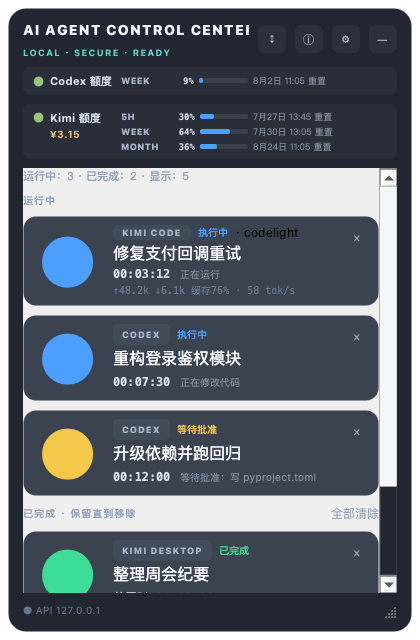
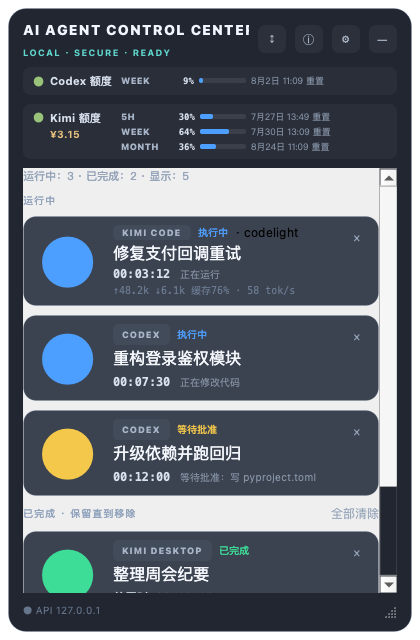
fix: verify Windows ACLs without localized names

Changed region(s): [[0.5881, 0.125, 0.7738, 0.25]]

diff --git a/src/aacc/gui.py b/src/aacc/gui.py
@@ -206,11 +206,11 @@ def _add_quota_metric_row(
     progress_bar.setRange(0, 100)
     progress_bar.setTextVisible(False)
     progress_bar.setFixedHeight(5)
-    progress_bar.setMinimumWidth(47)
+    progress_bar.setMinimumWidth(45)
     progress_bar.setSizePolicy(QSizePolicy.Policy.Expanding, QSizePolicy.Policy.Fixed)
     reset_label = QLabel("--")
     reset_label.setObjectName("quotaReset")
-    reset_label.setMinimumWidth(134)
+    reset_label.setMinimumWidth(136)
     reset_label.setAlignment(Qt.AlignmentFlag.AlignLeft | Qt.AlignmentFlag.AlignVCenter)
     layout.addWidget(period_label, row_index, 0)
     layout.addWidget(percent_label, row_index, 1)
@@ -264,8 +264,8 @@ class QuotaBar(QFrame):
         metric_layout.setVerticalSpacing(2)
         metric_layout.setColumnMinimumWidth(0, 38)
         metric_layout.setColumnMinimumWidth(1, 30)
-        metric_layout.setColumnMinimumWidth(2, 47)
-        metric_layout.setColumnMinimumWidth(3, 134)
+        metric_layout.setColumnMinimumWidth(2, 45)
+        metric_layout.setColumnMinimumWidth(3, 136)
         metric_layout.setColumnStretch(2, 1)
         layout.addLayout(metric_layout, 0, 2, 3, 1)
         layout.setColumnStretch(2, 1)
@@ -402,8 +402,8 @@ class CodexQuotaBar(QFrame):
         metric_layout.setHorizontalSpacing(5)
         metric_layout.setColumnMinimumWidth(0, 38)
         metric_layout.setColumnMinimumWidth(1, 30)
-        metric_layout.setColumnMinimumWidth(2, 47)
-        metric_layout.setColumnMinimumWidth(3, 134)
+        metric_layout.setColumnMinimumWidth(2, 45)
+        metric_layout.setColumnMinimumWidth(3, 136)
         metric_layout.setColumnStretch(2, 1)
         layout.addLayout(metric_layout, 0, 2)
         layout.setColumnStretch(2, 1)

diff --git a/tests/test_config.py b/tests/test_config.py
@@ -349,30 +349,29 @@ def test_load_config_removes_unrelated_explicit_windows_ace(tmp_path: Path) -> N
     )
     current_sid_match = re.search(r"\bS-\d+(?:-\d+)+\b", sid_result.stdout)
     assert current_sid_match is not None
-    access_result = subprocess.run(
+    acl_dump = tmp_path / "config-acl.txt"
+    subprocess.run(
         [
-            "powershell.exe",
-            "-NoProfile",
-            "-NonInteractive",
-            "-Command",
-            (
-                "(Get-Acl -LiteralPath $env:AACC_ACL_TEST_PATH).Access | "
-                "ForEach-Object { "
-                "$_.IdentityReference.Translate("
-                "[System.Security.Principal.SecurityIdentifier]).Value }"
-            ),
+            "icacls",
+            str(path),
+            "/save",
+            str(acl_dump),
         ],
-        env={**os.environ, "AACC_ACL_TEST_PATH": str(path)},
         capture_output=True,
         text=True,
         timeout=5,
         check=True,
         shell=False,
     )
-    access_sids = {line.strip() for line in access_result.stdout.splitlines() if line.strip()}
-    assert "S-1-1-0" not in access_sids
+    raw_acl = acl_dump.read_bytes()
+    saved_acl = raw_acl.decode("utf-16") if raw_acl.startswith(b"\xff\xfe") else raw_acl.decode()
+    access_sids = set(re.findall(r"\([^)]*;;;([^)]+)\)", saved_acl))
+    assert "S-1-1-0" not in saved_acl
+    assert access_sids
     assert access_sids <= {
         current_sid_match.group(0),
+        "SY",
+        "BA",
         "S-1-5-18",
         "S-1-5-32-544",
     }
